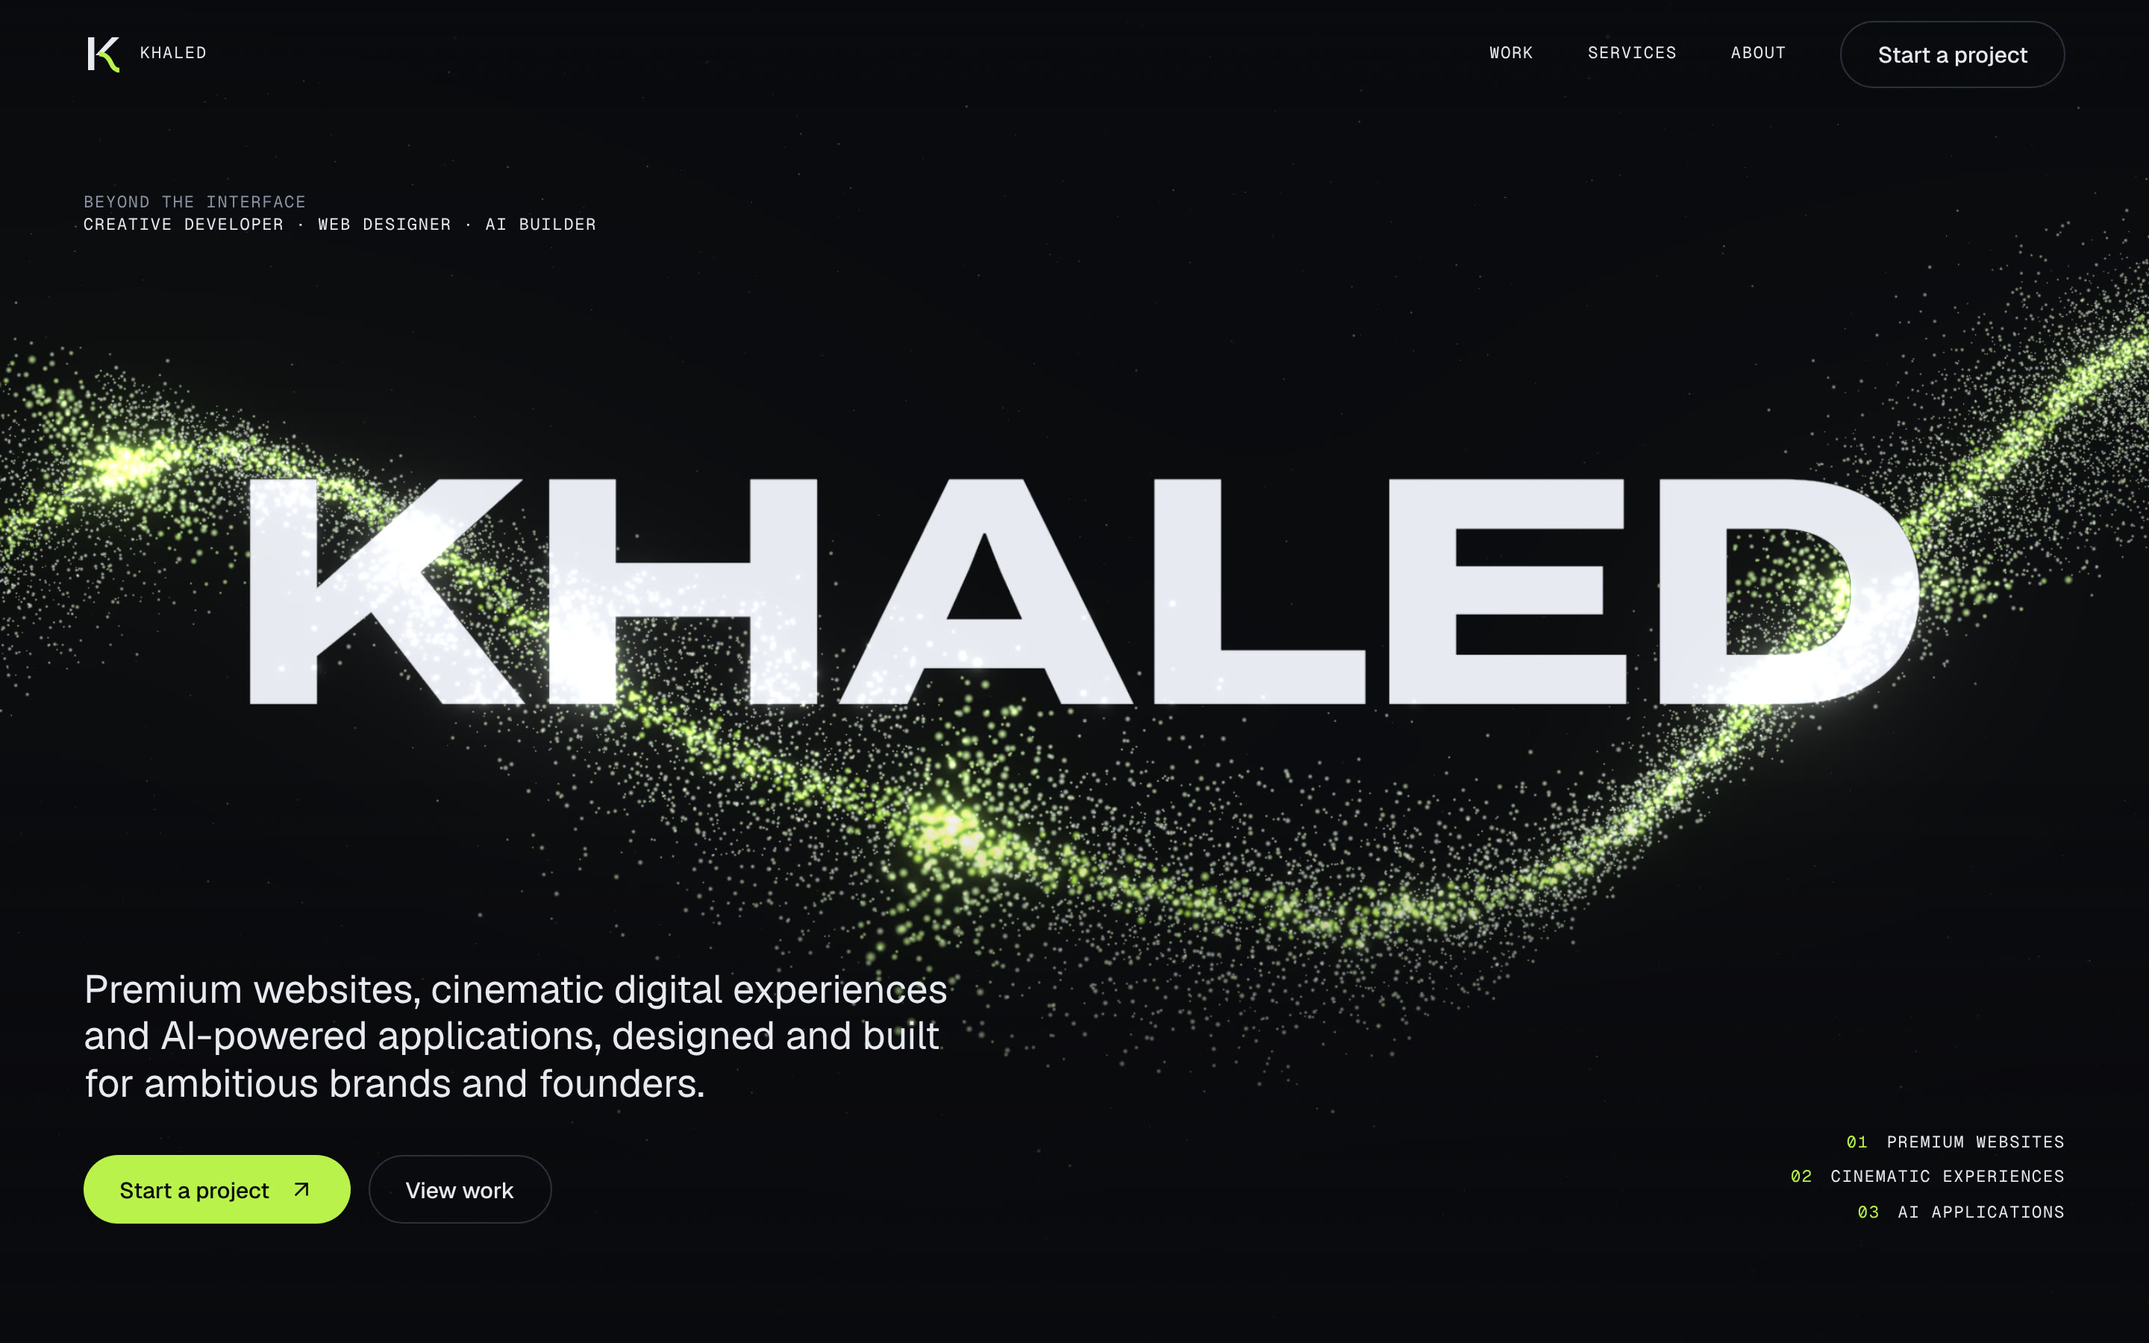
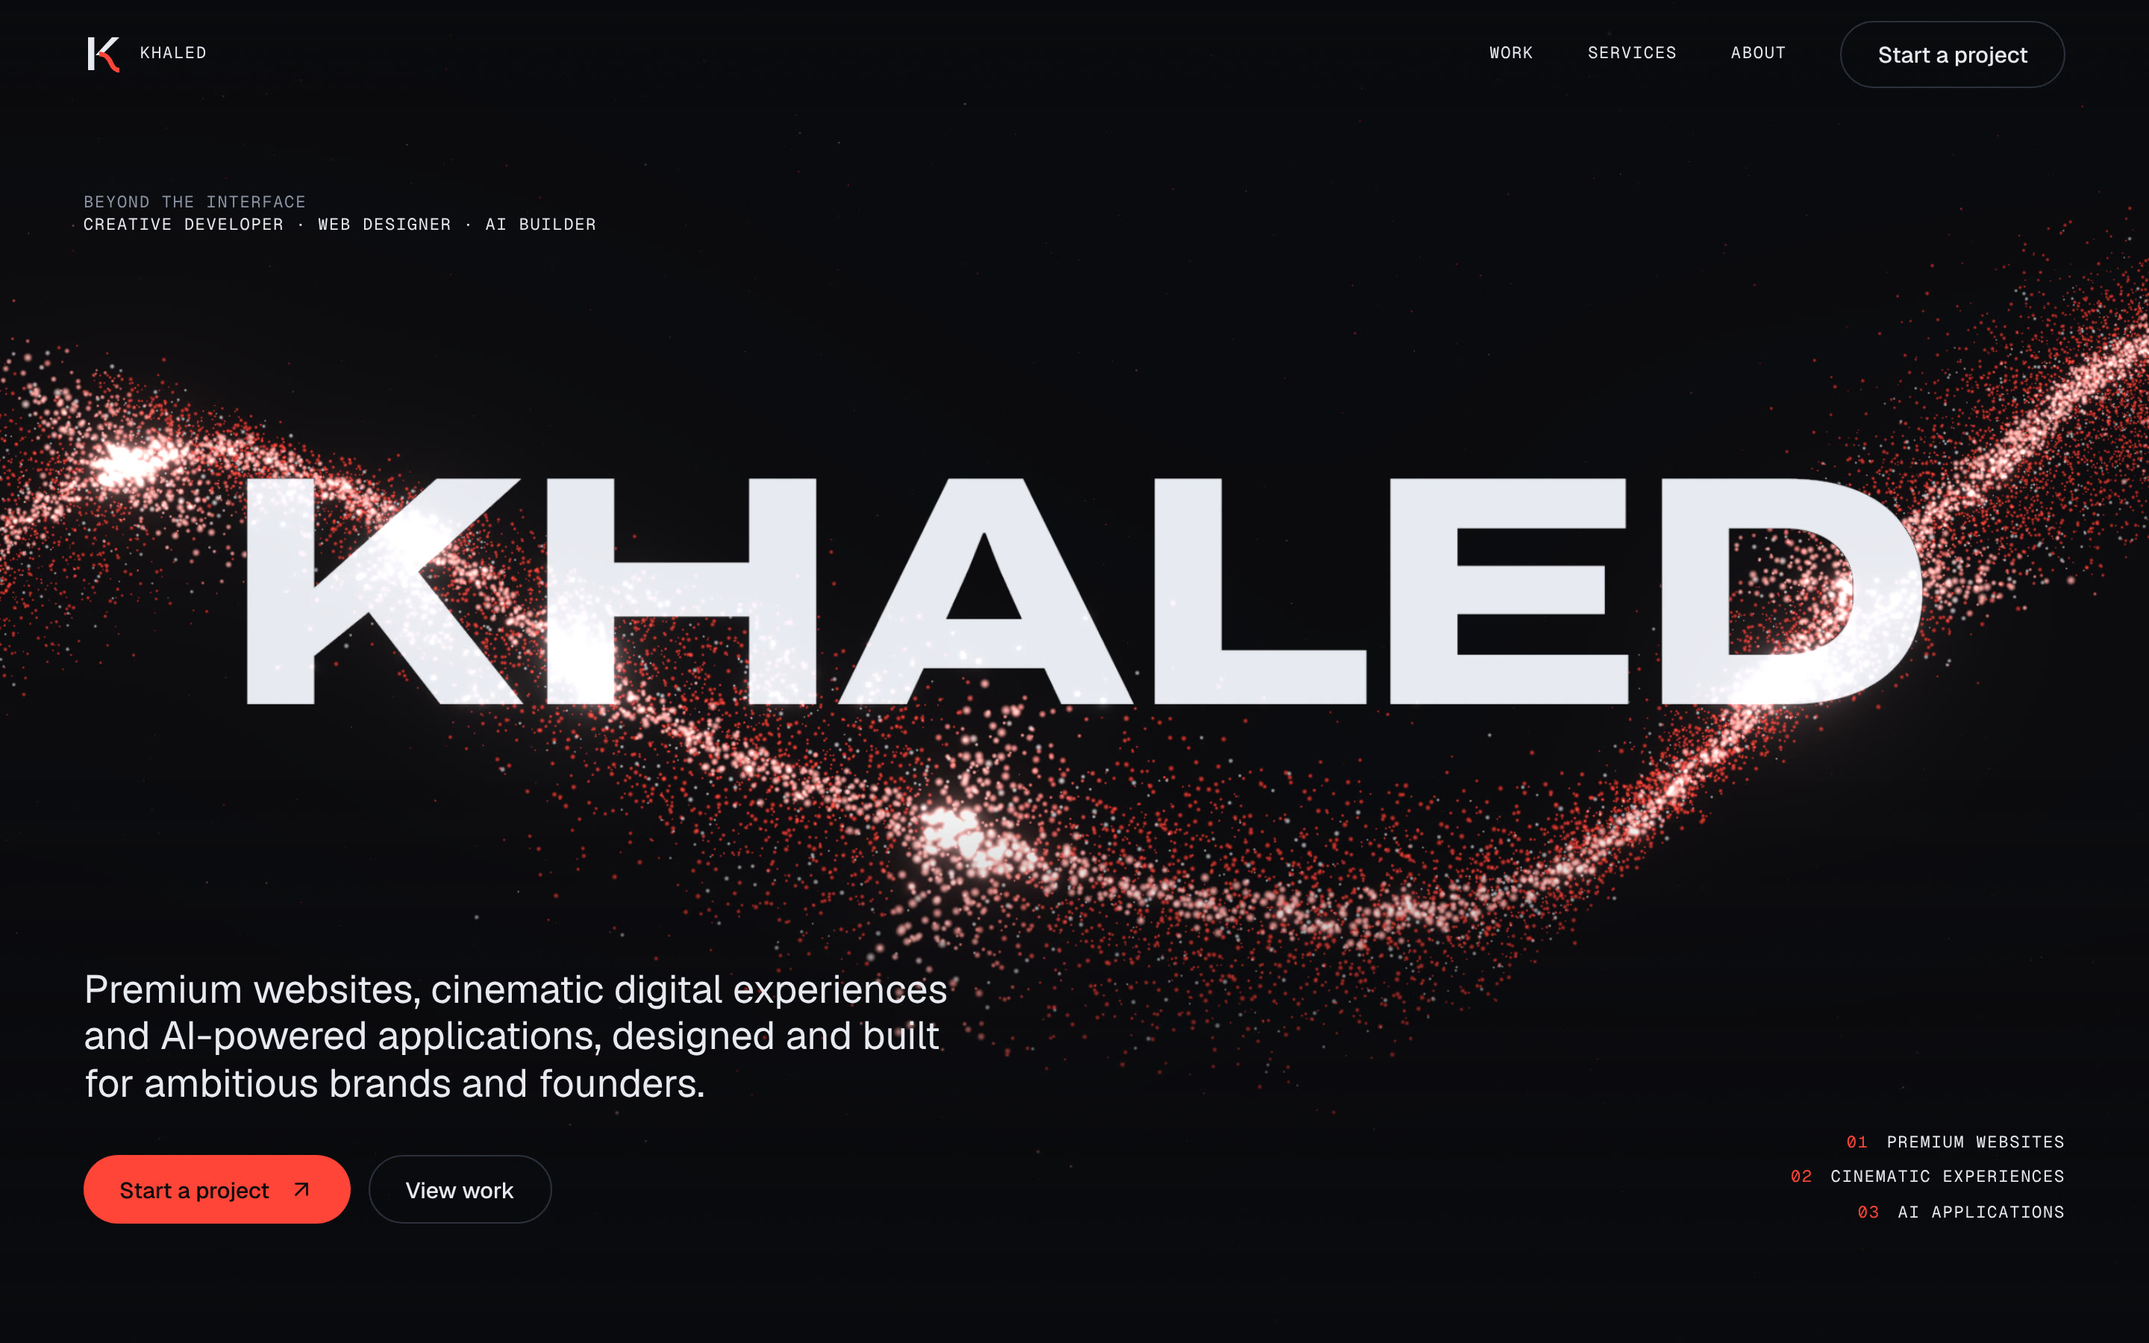
Accent colour: phosphor lime -> signal red (#FF4436)
- Token renamed lime -> accent across the app (one-line future changes)
- Signal red #FF4436: 5.78:1 on obsidian and for obsidian text on red (AA)
- Flow shader: hot near-white core + red halo, fewer neutral motes
  (red mixed toward silver turned pink; red carries less luminance)
- Form errors -> amber #F2B33D so they never read as the accent
- ORBIT concept field re-tinted; monogram flow arm follows the accent
- Art direction + review notes record the decision; review screenshots
  refreshed

Claude-Session: https://claude.ai/code/session_01KrgLBmrXHV4e51NHZYd6G6

diff --git a/portfolio/components/start/InquiryForm.tsx b/portfolio/components/start/InquiryForm.tsx
@@ -10,15 +10,15 @@ type Status = "idle" | "sending" | "sent" | "mailto" | "unconfigured" | "error";
 
 const chip =
   "label flex min-h-11 cursor-pointer items-center gap-2 rounded-pill border border-line px-4 py-2.5 text-silver transition-colors " +
-  "hover:border-silver has-[:checked]:border-lime has-[:checked]:bg-lime has-[:checked]:text-obsidian has-[:focus-visible]:outline has-[:focus-visible]:outline-2 has-[:focus-visible]:outline-offset-2 has-[:focus-visible]:outline-lime";
+  "hover:border-silver has-[:checked]:border-accent has-[:checked]:bg-accent has-[:checked]:text-obsidian has-[:focus-visible]:outline has-[:focus-visible]:outline-2 has-[:focus-visible]:outline-offset-2 has-[:focus-visible]:outline-accent";
 const field =
-  "w-full rounded-sm border border-line bg-graphite/40 px-4 py-3.5 text-silver placeholder:text-dim transition-colors focus:border-lime focus:outline-none aria-[invalid=true]:border-danger";
+  "w-full rounded-sm border border-line bg-graphite/40 px-4 py-3.5 text-silver placeholder:text-dim transition-colors focus:border-accent focus:outline-none aria-[invalid=true]:border-danger";
 
 function Group({ n, title, hint, children, error, id }: { n: string; title: string; hint?: string; children: React.ReactNode; error?: string; id: string }) {
   return (
     <fieldset className="border-t border-line pt-8" aria-describedby={error ? `${id}-err` : undefined}>
       <legend className="flex w-full items-baseline gap-4">
-        <span className="label text-lime">{n}</span>
+        <span className="label text-accent">{n}</span>
         <span className="text-title text-silver">{title}</span>
       </legend>
       {hint && <p className="mt-2 pl-10 text-sm text-muted">{hint}</p>}
@@ -102,7 +102,7 @@ export function InquiryForm() {
   if (status === "sent" || status === "mailto") {
     return (
       <div role="status" className="rounded-sm border border-line p-8 md:p-12">
-        <span className="grid size-12 place-items-center rounded-full bg-lime text-obsidian">
+        <span className="grid size-12 place-items-center rounded-full bg-accent text-obsidian">
           <Check aria-hidden="true" />
         </span>
         <h2 className="display wdth-118 mt-8 text-display-m text-silver">
@@ -129,7 +129,7 @@ export function InquiryForm() {
   return (
     <form ref={formRef} noValidate onSubmit={onSubmit} className="flex flex-col gap-12" aria-describedby={`${uid}-req`}>
       <p id={`${uid}-req`} className="text-sm text-muted">
-        Fields marked <span className="text-lime">*</span> are required.
+        Fields marked <span className="text-accent">*</span> are required.
       </p>
 
       <Group n="01" id={`${uid}-types`} title="What are we building? *" hint="Choose all that apply." error={err("projectTypes")}>
@@ -165,7 +165,7 @@ export function InquiryForm() {
 
       <Group n="03" id={`${uid}-details`} title="Tell me about the project">
         <label htmlFor={`${uid}-description`} className="label text-muted">
-          Description <span className="text-lime">*</span>
+          Description <span className="text-accent">*</span>
         </label>
         <textarea
           id={`${uid}-description`}
@@ -204,7 +204,7 @@ export function InquiryForm() {
           ).map(([k, label, type, auto, req]) => (
             <div key={k} className={k === "company" ? "md:col-span-2" : ""}>
               <label htmlFor={`${uid}-${k}`} className="label text-muted">
-                {label} {req && <span className="text-lime">*</span>}
+                {label} {req && <span className="text-accent">*</span>}
               </label>
               <input
                 id={`${uid}-${k}`}

diff --git a/portfolio/app/work/[slug]/page.tsx b/portfolio/app/work/[slug]/page.tsx
@@ -43,7 +43,7 @@ export default async function CaseStudy({ params }: Params) {
         </p>
         <h1 className="display wdth-125 mt-4 text-display-xl text-silver">{p.name}</h1>
         <p className="mt-6 max-w-[52ch] text-title text-silver">{p.summary}</p>
-        <p className="label mt-6 inline-flex rounded-pill border border-lime/40 px-3 py-2 text-lime">{conceptLabel}</p>
+        <p className="label mt-6 inline-flex rounded-pill border border-accent/40 px-3 py-2 text-accent">{conceptLabel}</p>
 
         <dl className="mt-12 grid gap-6 border-t border-line pt-6 sm:grid-cols-3">
           <div>
@@ -95,14 +95,14 @@ export default async function CaseStudy({ params }: Params) {
           <p className="label text-muted">Showcase</p>
           <h2 id="demo" className="mt-4 text-title text-silver">{p.demo.title}</h2>
           <p className="mt-3 max-w-[60ch] text-muted">{p.demo.body}</p>
-          <p className="label mt-6 text-lime">In production. Arrives with the showcase phase.</p>
+          <p className="label mt-6 text-accent">In production. Arrives with the showcase phase.</p>
         </div>
       </section>
 
       <nav aria-label="Next project" className="container-site mt-32 border-t border-line py-16">
         <p className="label text-muted">Next concept</p>
         <Link href={`/work/${next.slug}`} className="group mt-4 flex items-end justify-between gap-6">
-          <span className="display wdth-125 text-display-l text-silver transition-colors group-hover:text-lime">{next.name}</span>
+          <span className="display wdth-125 text-display-l text-silver transition-colors group-hover:text-accent">{next.name}</span>
           <ArrowUpRight aria-hidden="true" size={40} className="mb-3 shrink-0 text-silver transition-transform duration-300 ease-flow group-hover:-translate-y-1 group-hover:translate-x-1" />
         </Link>
         <div className="mt-16">

diff --git a/portfolio/app/start/page.tsx b/portfolio/app/start/page.tsx
@@ -15,7 +15,7 @@ export default function StartPage() {
       {/* Quiet portal ring — the Flow's finale, without heavy 3D on a typing page */}
       <div
         aria-hidden="true"
-        className="pointer-events-none absolute right-[-30vw] top-[-10vh] size-[90vw] max-w-[1100px] rounded-full border border-lime/15 shadow-[0_0_120px_10px_rgba(184,243,74,0.06)_inset] md:right-[-12vw] md:size-[60vw]"
+        className="pointer-events-none absolute right-[-30vw] top-[-10vh] size-[90vw] max-w-[1100px] rounded-full border border-accent/15 shadow-[0_0_120px_10px_rgba(255,68,54,0.06)_inset] md:right-[-12vw] md:size-[60vw]"
       />
       <div className="container-site relative grid gap-16 lg:grid-cols-12">
         <div className="lg:col-span-4">
@@ -23,7 +23,7 @@ export default function StartPage() {
           <h1 className="display wdth-118 mt-8 text-display-l text-silver">
             Let&apos;s build
             <br />
-            what&apos;s next<span className="text-lime">.</span>
+            what&apos;s next<span className="text-accent">.</span>
           </h1>
           <p className="mt-8 max-w-[38ch] text-muted">
             Premium websites, cinematic experiences and AI-powered applications. Share a few details and I&apos;ll get back to you
@@ -32,7 +32,7 @@ export default function StartPage() {
           <ol className="mt-10 flex flex-col gap-3 border-t border-line pt-6">
             {["Project", "Scope", "Details", "Contact"].map((s, i) => (
               <li key={s} className="label flex gap-4 text-muted">
-                <span className="text-lime">0{i + 1}</span>
+                <span className="text-accent">0{i + 1}</span>
                 {s}
               </li>
             ))}

diff --git a/portfolio/app/globals.css b/portfolio/app/globals.css
@@ -17,11 +17,11 @@
   --color-obsidian: oklch(14.5% 0.0067 270.5);   /* #090A0D base */
   --color-graphite: oklch(23.03% 0.0167 264.2);  /* #191D25 surfaces */
   --color-silver: oklch(93.65% 0.0087 264.5);    /* #E7EAF0 type */
-  --color-lime: oklch(89.34% 0.2012 126.9);      /* #B8F34A accent = light */
+  --color-accent: oklch(66.2% 0.2249 29);         /* #FF4436 signal red — accent = light (5.78:1) */
   --color-muted: oklch(66.2% 0.0255 264.4);      /* #8B93A3 secondary text (6.4:1) */
   --color-line: oklch(30.81% 0.0216 262.5);      /* #2A303B hairlines */
   --color-dim: oklch(50.22% 0.0239 264.3);       /* #5D6472 non-text only */
-  --color-danger: oklch(72% 0.17 25);
+  --color-danger: oklch(80.59% 0.1471 79);       /* #F2B33D amber — errors must not read as the red accent */
   --color-transparent: transparent;
   --color-current: currentColor;
 
@@ -102,8 +102,8 @@
     min-height: 100dvh;
     overflow-x: clip;
   }
-  ::selection { background: var(--color-lime); color: var(--color-obsidian); }
-  :focus-visible { outline: 2px solid var(--color-lime); outline-offset: 3px; border-radius: 2px; }
+  ::selection { background: var(--color-accent); color: var(--color-obsidian); }
+  :focus-visible { outline: 2px solid var(--color-accent); outline-offset: 3px; border-radius: 2px; }
   a { color: inherit; text-decoration: none; }
   img, video { display: block; max-width: 100%; }
 }

diff --git a/portfolio/components/sections/Work.tsx b/portfolio/components/sections/Work.tsx
@@ -15,7 +15,7 @@ export function Work() {
             <h2 id="work-title" className="display wdth-118 mt-8 text-display-m text-silver">
               Concepts
               <br />
-              in motion<span className="text-lime">.</span>
+              in motion<span className="text-accent">.</span>
             </h2>
           </div>
           <p className="label max-w-[38ch] text-muted">
@@ -35,11 +35,11 @@ export function Work() {
                     <p className="label text-muted">
                       {p.index} · {p.kind}
                     </p>
-                    <h3 className="display wdth-125 mt-2 text-display-m text-silver transition-colors group-hover:text-lime">
+                    <h3 className="display wdth-125 mt-2 text-display-m text-silver transition-colors group-hover:text-accent">
                       {p.name}
                     </h3>
                     <p className="mt-3 max-w-[48ch] text-muted">{p.summary}</p>
-                    <p className="label mt-4 text-lime">Independent concept</p>
+                    <p className="label mt-4 text-accent">Independent concept</p>
                   </div>
                   <ArrowUpRight
                     aria-hidden="true"

diff --git a/portfolio/components/three/flow/shaders.ts b/portfolio/components/three/flow/shaders.ts
@@ -14,7 +14,7 @@ uniform float uFade;
 uniform vec2  uPointer;
 uniform float uPointerStrength;
 uniform float uAspect;
-uniform vec3  uLime;
+uniform vec3  uAccent;
 uniform vec3  uSilver;
 
 attribute vec2  aRef;
@@ -68,8 +68,14 @@ void main() {
   gl_PointSize = size * uSize * uPixelRatio * (34.0 / -mv.z);
 
   float fade = clamp((-mv.z - 4.0) / uFade, 0.0, 1.0);
-  vec3 col = mix(uLime, uSilver, clamp((1.0 - aCore) * 0.55 + fract(aSeed * 7.31) * 0.35, 0.0, 1.0));
-  col = mix(col, uLime, pulse * 0.6);
+  // Red reads as light only with a hot core: near-white centre, saturated red halo, few neutral motes.
+  // (Mixing red toward silver gives pink, so the neutral share is kept small.)
+  vec3 hot = mix(uAccent, vec3(1.0, 0.93, 0.9), 0.6);
+  float neutral = step(0.86, fract(aSeed * 7.31));                 // ~14% silver motes for depth
+  vec3 col = mix(uAccent, uSilver, neutral * (1.0 - aCore));
+  col = mix(col, hot, aCore * 0.65);
+  col = mix(col, hot, pulse * 0.7);
+  bright *= mix(1.25, 1.0, neutral);                                // red carries less luminance than lime did
   vColor = col * bright * (1.0 - fade * 0.7) * (1.0 + pulse * 0.55 + infl * 0.6);
 }
 `;

diff --git a/portfolio/components/sections/Interface.tsx b/portfolio/components/sections/Interface.tsx
@@ -9,7 +9,7 @@ export function Interface() {
         <SectionLabel index="03">Capabilities</SectionLabel>
         <h2 id="interface-title" className="display wdth-118 mt-8 text-display-m text-silver">
           Four ways
-          <br />I work<span className="text-lime">.</span>
+          <br />I work<span className="text-accent">.</span>
         </h2>
 
         {/* Reserved stage for the Flow-built panels (3D layer). */}
@@ -18,7 +18,7 @@ export function Interface() {
         <ol className="grid gap-px overflow-hidden rounded-sm border border-line bg-line md:grid-cols-2 xl:grid-cols-4">
           {capabilities.map((c) => (
             <li key={c.index} className="flex flex-col gap-5 bg-obsidian p-6 md:p-8">
-              <span className="label text-lime">{c.index}</span>
+              <span className="label text-accent">{c.index}</span>
               <h3 className="text-title text-silver">{c.title}</h3>
               <p className="text-muted">{c.body}</p>
               <ul className="mt-auto flex flex-wrap gap-2 pt-2">

diff --git a/portfolio/components/sections/System.tsx b/portfolio/components/sections/System.tsx
@@ -9,7 +9,7 @@ export function System() {
         <div className="md:col-span-5">
           <SectionLabel index="05">Technology</SectionLabel>
           <h2 id="system-title" className="display wdth-118 mt-8 text-display-m text-silver">
-            The system<span className="text-lime">.</span>
+            The system<span className="text-accent">.</span>
           </h2>
           <p className="mt-6 max-w-[40ch] text-muted">
             The tools behind the work, chosen for speed, craft and reliability.
@@ -19,7 +19,7 @@ export function System() {
           <dl className="grid gap-px overflow-hidden rounded-sm border border-line bg-line sm:grid-cols-2">
             {toolGroups.map((g) => (
               <div key={g} className="bg-obsidian p-6">
-                <dt className="label text-lime">{g}</dt>
+                <dt className="label text-accent">{g}</dt>
                 <dd className="mt-4">
                   <ul className="flex flex-col gap-3">
                     {tools

diff --git a/portfolio/components/ui/Button.tsx b/portfolio/components/ui/Button.tsx
@@ -8,9 +8,9 @@ const base =
   "group relative inline-flex min-h-11 items-center gap-3 rounded-pill px-6 py-3.5 text-[0.9375rem] font-medium leading-none transition-colors duration-300 ease-flow focus-visible:outline-offset-4";
 
 const variants: Record<Variant, string> = {
-  primary: "bg-lime text-obsidian hover:bg-silver",
+  primary: "bg-accent text-obsidian hover:bg-silver",
   secondary: "border border-line text-silver hover:border-silver",
-  ghost: "px-0 text-silver underline decoration-line underline-offset-8 hover:decoration-lime",
+  ghost: "px-0 text-silver underline decoration-line underline-offset-8 hover:decoration-accent",
 };
 
 interface ButtonLinkProps extends Omit<ComponentProps<typeof Link>, "className"> {

diff --git a/portfolio/components/brand/Monogram.tsx b/portfolio/components/brand/Monogram.tsx
@@ -1,7 +1,7 @@
 interface MonogramProps {
   size?: number;
   className?: string;
-  /** Colour of the rigid strokes; the flow arm is always lime unless `mono` */
+  /** Colour of the rigid strokes; the flow arm is always the accent unless `mono` */
   ink?: string;
   mono?: boolean;
 }
@@ -14,7 +14,7 @@ export function Monogram({ size = 26, className, ink = "currentColor", mono = fa
       <path d="M8 14 L19 2 H24 L12 14Z" fill={ink} />
       <path
         d="M10.5 13.2 C15 13.2 17 16 18.5 19.5 S21.5 24 24 24"
-        stroke={mono ? ink : "var(--color-lime)"}
+        stroke={mono ? ink : "var(--color-accent)"}
         strokeWidth="3.2"
         fill="none"
       />

diff --git a/portfolio/components/sections/Form.tsx b/portfolio/components/sections/Form.tsx
@@ -12,7 +12,7 @@ export function Form() {
             <span className="wdth-112 block text-display-l">I build</span>
             <span className="wdth-62 block text-[clamp(4.4rem,1.6rem+12vw,12rem)] font-bold leading-[0.86]">digital</span>
             <span className="wdth-125 block text-[clamp(2.1rem,0.4rem+5vw,5.25rem)] leading-[0.9]">
-              experiences<span className="text-lime">.</span>
+              experiences<span className="text-accent">.</span>
             </span>
           </h2>
         </div>

diff --git a/portfolio/components/sections/Signal.tsx b/portfolio/components/sections/Signal.tsx
@@ -55,7 +55,7 @@ export function Signal() {
         <ul className="flex flex-wrap gap-x-6 gap-y-2 md:col-span-5 md:flex-col md:items-end lg:col-span-6" data-hero-line aria-label="Services">
           {site.services.map((s, i) => (
             <li key={s} className="label flex items-center gap-3 text-muted">
-              <span className="text-lime">0{i + 1}</span>
+              <span className="text-accent">0{i + 1}</span>
               <span className="text-silver">{s}</span>
             </li>
           ))}
